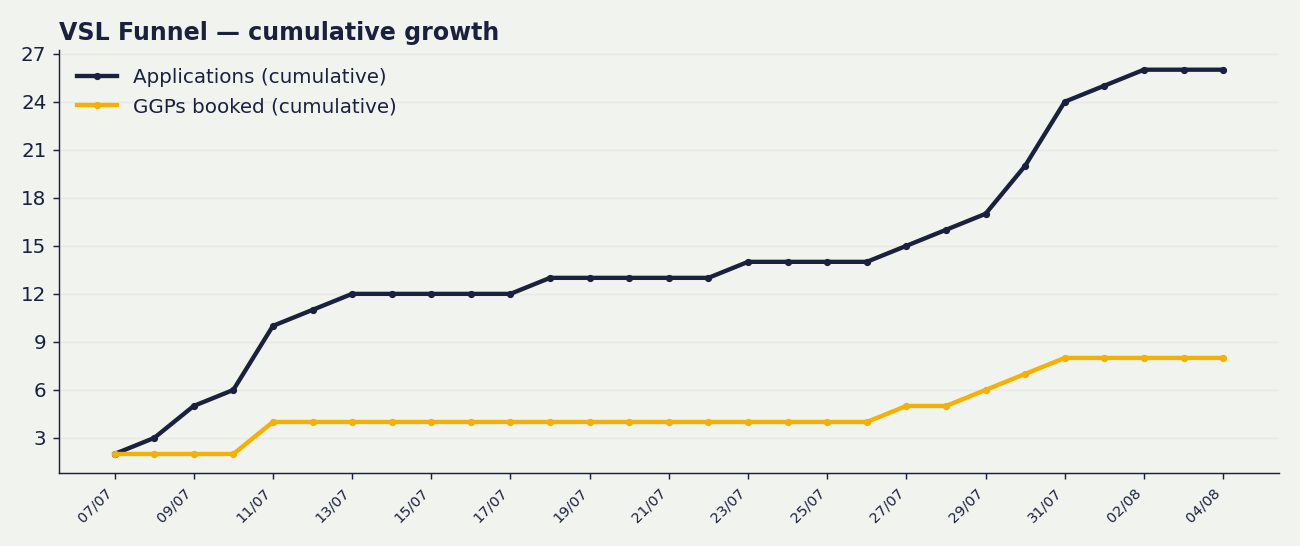
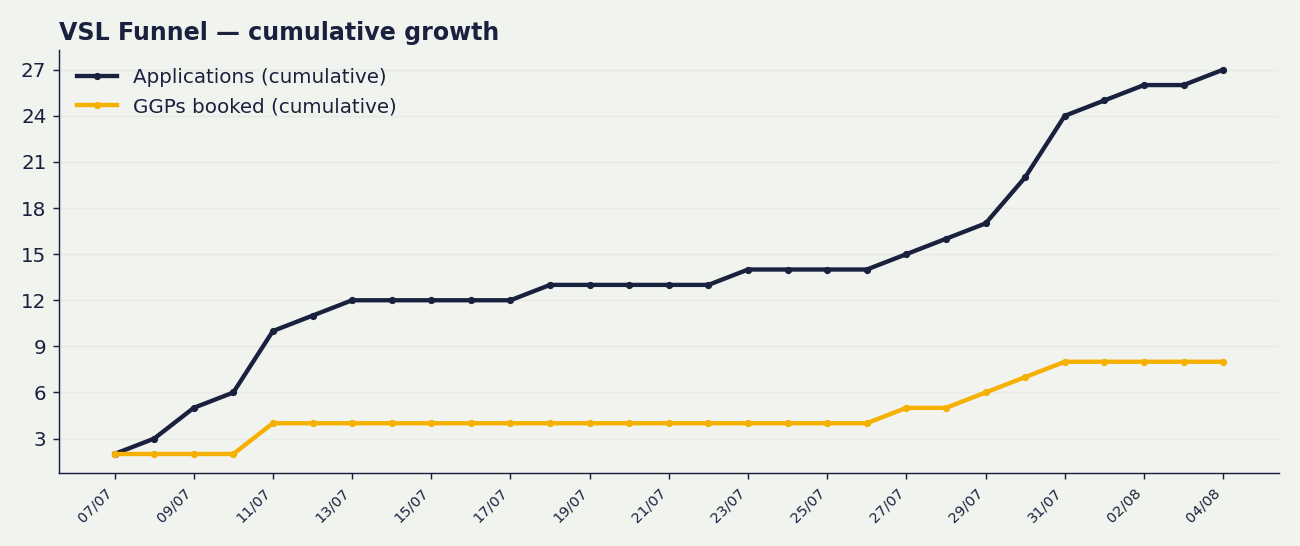
nightly dashboard update 2026-08-04 20:01

diff --git a/content/index.md b/content/index.md
@@ -1,6 +1,6 @@
 # 📈 VSL Funnel Dashboard
 
-_Live from the VSL Applications tracker + Meta. Last updated: 4 Aug 2026, 19:46 BST. Rebuilds nightly._
+_Live from the VSL Applications tracker + Meta. Last updated: 4 Aug 2026, 20:01 BST. Rebuilds nightly._
 
 > Funnel window from 2026-07-07. Attribution = your team's funnel-stage ticks on the Applications tab (the source of truth).
 
@@ -10,9 +10,9 @@ _Live from the VSL Applications tracker + Meta. Last updated: 4 Aug 2026, 19:46 
 
 | Metric | Value |
 |---|---|
-| 💷 Spent | **£1,812.71** |
-| 👀 Opt-ins | **78** |
-| 📝 Applications | **39** |
+| 💷 Spent | **£1,819.56** |
+| 👀 Opt-ins | **80** |
+| 📝 Applications | **40** |
 | 📞 GGPs booked | **10** |
 | ✅ Showed up | **4** |
 | 🤝 Signed | **2** (Tarik, Zeeshan) |
@@ -22,7 +22,7 @@ _Live from the VSL Applications tracker + Meta. Last updated: 4 Aug 2026, 19:46 
 | Step | Rate |
 |---|---|
 | Opt-in → Application | 50% |
-| Application → GGP booked | 26% |
+| Application → GGP booked | 25% |
 | GGP show rate | 40% |
 | Show → Sign | 50% |
 | Application → Sign | 5% |
@@ -31,15 +31,15 @@ _Live from the VSL Applications tracker + Meta. Last updated: 4 Aug 2026, 19:46 
 
 | Cost | Value |
 |---|---|
-| Cost per application | £46 |
-| Cost per GGP booked | £181 |
-| Cost per show-up | £453 |
-| **Cost per acquisition (CPA)** | **£906** |
+| Cost per application | £45 |
+| Cost per GGP booked | £182 |
+| Cost per show-up | £455 |
+| **Cost per acquisition (CPA)** | **£910** |
 
 ## Ad spend split
 
-- 🔥 Warm: £909.52
-- ❄ Cold: £903.19
+- 🔥 Warm: £915.01
+- ❄ Cold: £904.55
 
 ---
 
@@ -57,4 +57,4 @@ _Live from the VSL Applications tracker + Meta. Last updated: 4 Aug 2026, 19:46 
 > _Applications + GGP-booked are TRUE daily series (from submission timestamps). Opt-ins have no per-day source in the Opt-ins tab, so opt-ins appear as a total only, not a daily line._
 
 ---
-<!-- Auto-generated by the VSL dashboard nightly pipeline. Do not edit by hand. 4 Aug 2026, 19:46 BST -->
+<!-- Auto-generated by the VSL dashboard nightly pipeline. Do not edit by hand. 4 Aug 2026, 20:01 BST -->
